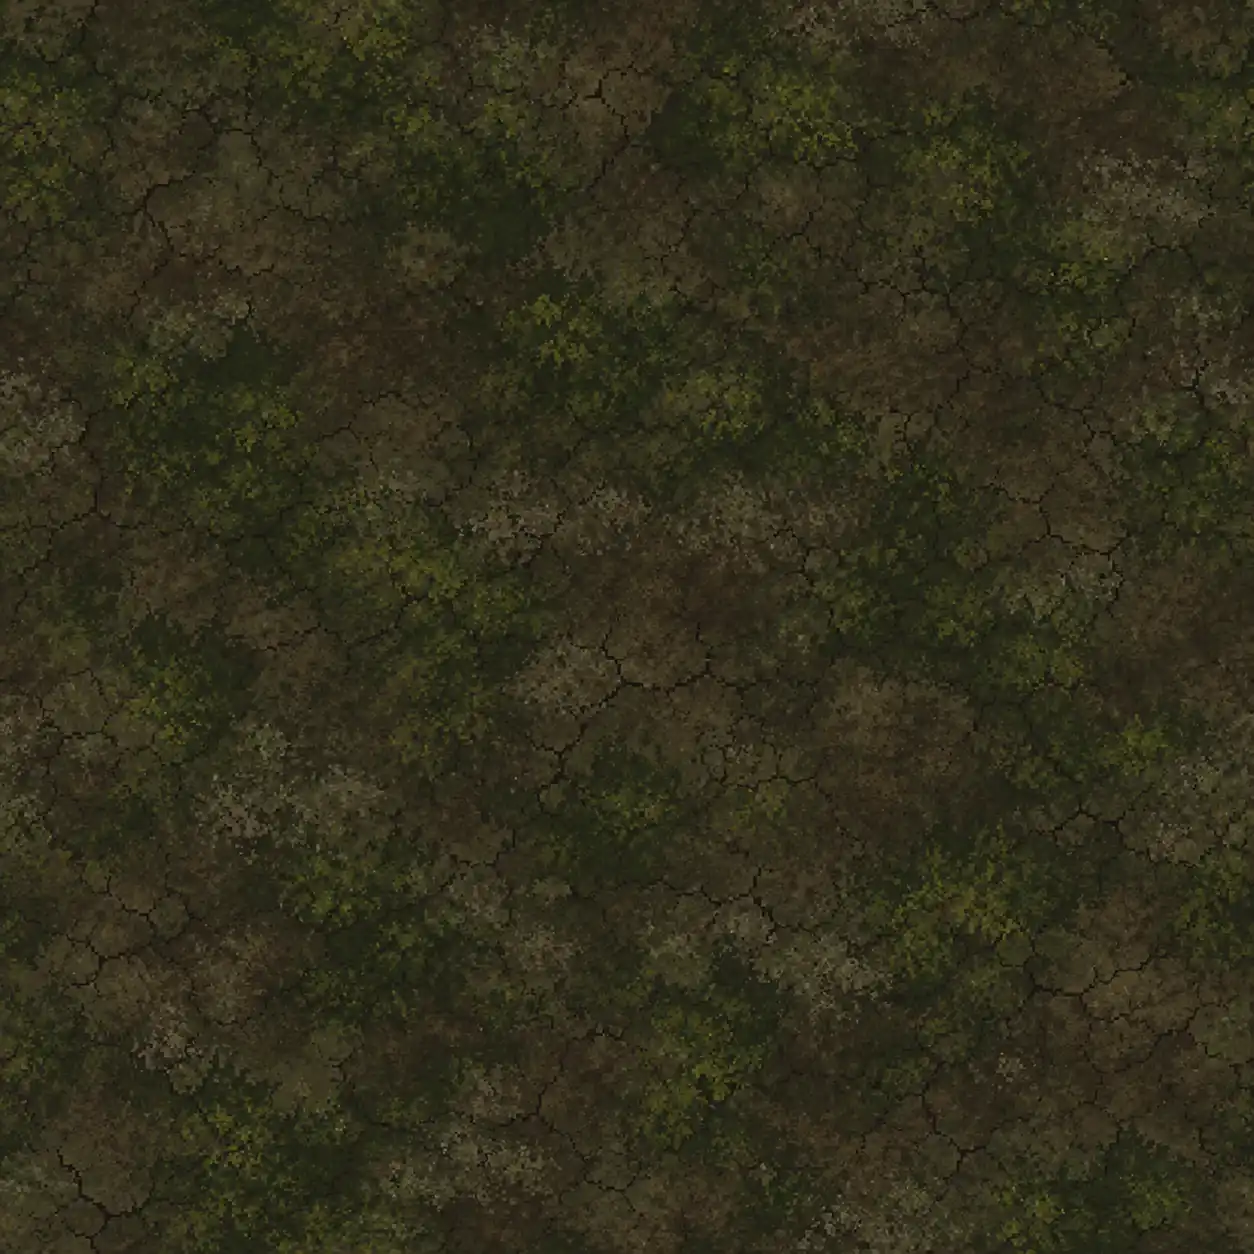
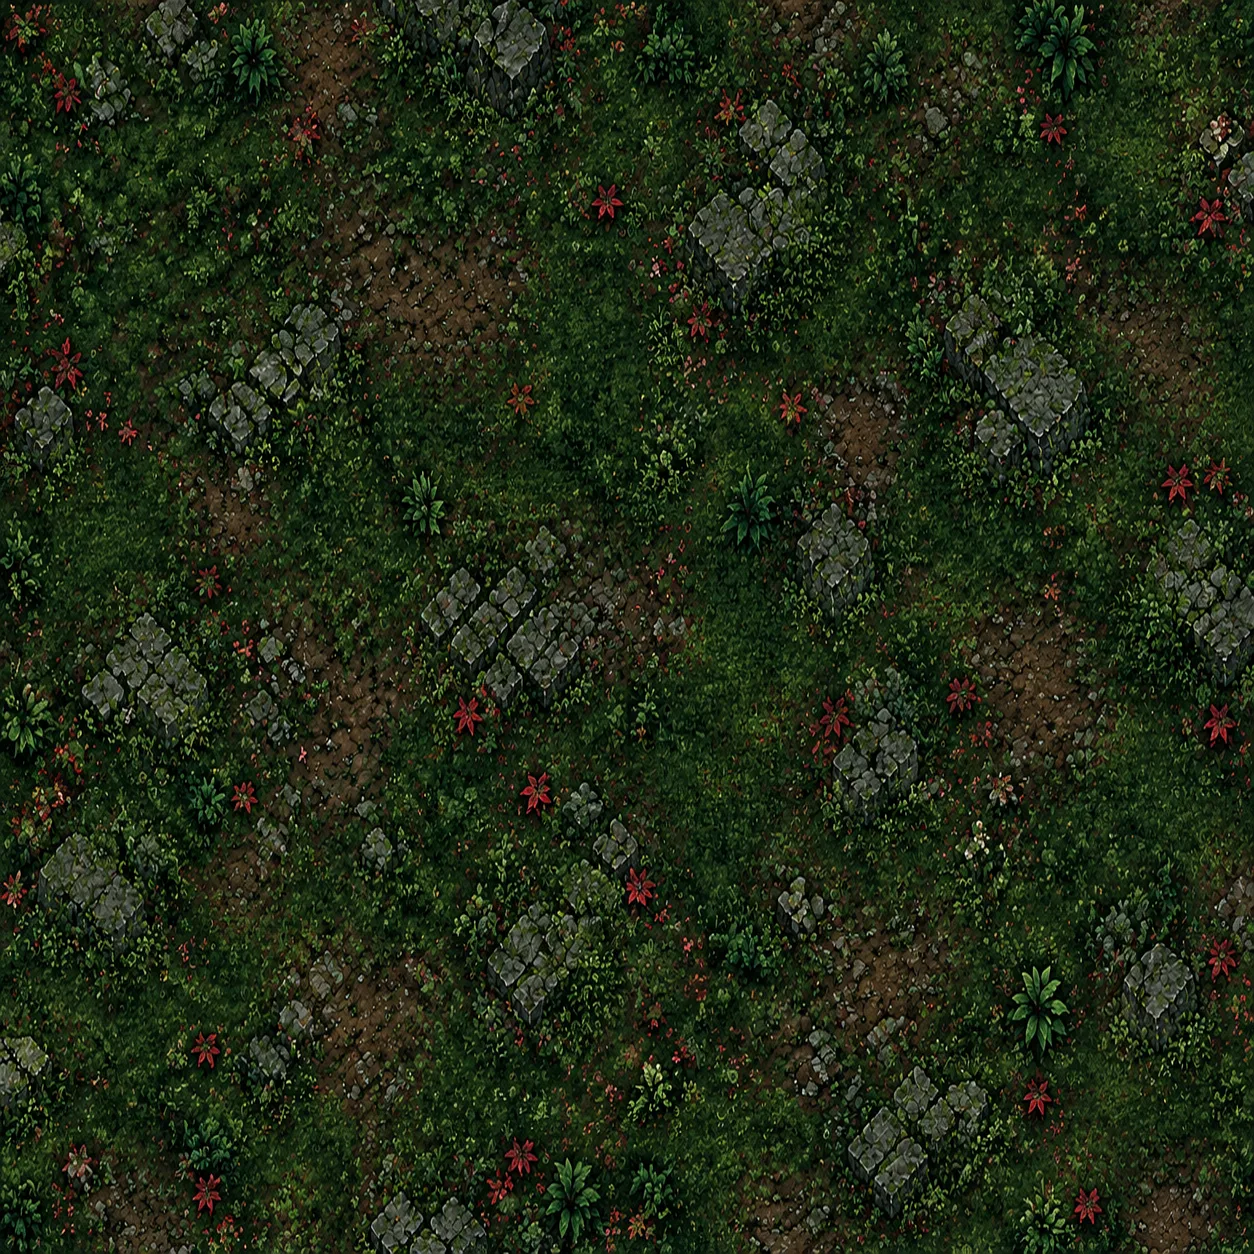
feat(arena): integrate custom ground and shrine border decorations

diff --git a/src/borderDecor.ts b/src/borderDecor.ts
@@ -1,0 +1,224 @@
+import { borderPropImages } from './assets';
+
+export interface BorderDecorItem {
+  type: 'fence' | 'torigate' | 'stoneLamp' | 'statue' | 'bridge';
+  x: number;
+  y: number;
+  w: number;
+  h: number;
+  flip?: boolean;
+}
+
+export const BORDER_DECORATIONS: readonly BorderDecorItem[] = [
+  // -------------------------------------------------------------
+  // 1. NORTH BORDER (y = -1750, span x: -2300 to 3700)
+  // -------------------------------------------------------------
+  // North-West Shrine Corner (x: -2260 to -1750)
+  { type: 'statue', x: -2260, y: -1780, w: 180, h: 212 },
+  { type: 'stoneLamp', x: -2170, y: -1720, w: 90, h: 121 },
+  { type: 'torigate', x: -2060, y: -1860, w: 420, h: 376 },
+  { type: 'stoneLamp', x: -1880, y: -1720, w: 90, h: 121 },
+  { type: 'statue', x: -1780, y: -1780, w: 180, h: 212, flip: true },
+
+  // NW Fence Run
+  { type: 'fence', x: -1580, y: -1740, w: 390, h: 195 },
+  { type: 'stoneLamp', x: -1205, y: -1710, w: 80, h: 108 },
+  { type: 'fence', x: -1200, y: -1740, w: 390, h: 195, flip: true },
+  { type: 'stoneLamp', x: -825, y: -1710, w: 80, h: 108 },
+  { type: 'fence', x: -820, y: -1740, w: 390, h: 195 },
+
+  // North Scenic Bridge Crossing
+  { type: 'bridge', x: -410, y: -1780, w: 500, h: 290 },
+  { type: 'fence', x: 80, y: -1740, w: 390, h: 195, flip: true },
+  { type: 'stoneLamp', x: 460, y: -1710, w: 80, h: 108 },
+
+  // North Grand Gateway (centered around player spawn X = 700)
+  { type: 'stoneLamp', x: 570, y: -1720, w: 90, h: 121 },
+  { type: 'statue', x: 650, y: -1780, w: 190, h: 223 },
+  { type: 'torigate', x: 850, y: -1890, w: 480, h: 430 },
+  { type: 'statue', x: 1340, y: -1780, w: 190, h: 223, flip: true },
+  { type: 'stoneLamp', x: 1540, y: -1720, w: 90, h: 121 },
+
+  // NE Fence Run
+  { type: 'fence', x: 1640, y: -1740, w: 390, h: 195 },
+  { type: 'stoneLamp', x: 2015, y: -1710, w: 80, h: 108 },
+  { type: 'fence', x: 2020, y: -1740, w: 390, h: 195, flip: true },
+
+  // North-East Scenic Bridge
+  { type: 'bridge', x: 2400, y: -1780, w: 500, h: 290, flip: true },
+  { type: 'fence', x: 2890, y: -1740, w: 390, h: 195 },
+  { type: 'stoneLamp', x: 3270, y: -1710, w: 80, h: 108 },
+
+  // North-East Corner Shrine
+  { type: 'statue', x: 3380, y: -1780, w: 180, h: 212 },
+  { type: 'torigate', x: 3540, y: -1860, w: 420, h: 376, flip: true },
+
+  // -------------------------------------------------------------
+  // 2. SOUTH BORDER (y = 2450, span x: -2300 to 3700)
+  // -------------------------------------------------------------
+  // South-West Corner Shrine
+  { type: 'torigate', x: -2250, y: 2220, w: 420, h: 376 },
+  { type: 'stoneLamp', x: -2060, y: 2340, w: 90, h: 121 },
+  { type: 'statue', x: -1960, y: 2280, w: 180, h: 212, flip: true },
+
+  // SW Fence Run
+  { type: 'fence', x: -1760, y: 2320, w: 390, h: 195 },
+  { type: 'stoneLamp', x: -1385, y: 2340, w: 80, h: 108 },
+  { type: 'fence', x: -1380, y: 2320, w: 390, h: 195, flip: true },
+  { type: 'stoneLamp', x: -1005, y: 2340, w: 80, h: 108 },
+
+  // South Scenic Bridge
+  { type: 'bridge', x: -980, y: 2260, w: 500, h: 290 },
+  { type: 'fence', x: -470, y: 2320, w: 390, h: 195 },
+  { type: 'stoneLamp', x: -95, y: 2340, w: 80, h: 108 },
+  { type: 'fence', x: -90, y: 2320, w: 390, h: 195, flip: true },
+  { type: 'stoneLamp', x: 290, y: 2340, w: 80, h: 108 },
+
+  // South Grand Gateway (aligned with player spawn X = 700)
+  { type: 'stoneLamp', x: 490, y: 2340, w: 90, h: 121 },
+  { type: 'statue', x: 570, y: 2280, w: 190, h: 223 },
+  { type: 'torigate', x: 770, y: 2200, w: 480, h: 430 },
+  { type: 'statue', x: 1260, y: 2280, w: 190, h: 223, flip: true },
+  { type: 'stoneLamp', x: 1460, y: 2340, w: 90, h: 121 },
+
+  // SE Fence Run
+  { type: 'fence', x: 1570, y: 2320, w: 390, h: 195 },
+  { type: 'stoneLamp', x: 1945, y: 2340, w: 80, h: 108 },
+  { type: 'fence', x: 1950, y: 2320, w: 390, h: 195, flip: true },
+
+  // South-East Scenic Bridge
+  { type: 'bridge', x: 2350, y: 2260, w: 500, h: 290, flip: true },
+  { type: 'fence', x: 2840, y: 2320, w: 390, h: 195 },
+  { type: 'stoneLamp', x: 3220, y: 2340, w: 80, h: 108 },
+
+  // South-East Corner Shrine
+  { type: 'statue', x: 3320, y: 2280, w: 180, h: 212 },
+  { type: 'torigate', x: 3520, y: 2220, w: 420, h: 376, flip: true },
+
+  // -------------------------------------------------------------
+  // 3. WEST BORDER (x = -2300, span y: -1500 to 2100)
+  // -------------------------------------------------------------
+  { type: 'bridge', x: -2270, y: -1250, w: 460, h: 267 },
+  { type: 'stoneLamp', x: -2250, y: -970, w: 85, h: 114 },
+  { type: 'fence', x: -2280, y: -840, w: 360, h: 180 },
+  { type: 'stoneLamp', x: -2250, y: -650, w: 85, h: 114 },
+  { type: 'fence', x: -2280, y: -520, w: 360, h: 180, flip: true },
+  { type: 'stoneLamp', x: -2250, y: -330, w: 85, h: 114 },
+
+  // West Grand Gateway (aligned with player spawn Y = 350)
+  { type: 'statue', x: -2260, y: -160, w: 180, h: 212 },
+  { type: 'stoneLamp', x: -2240, y: 60, w: 90, h: 121 },
+  { type: 'torigate', x: -2280, y: 190, w: 460, h: 410 },
+  { type: 'stoneLamp', x: -2240, y: 610, w: 90, h: 121 },
+  { type: 'statue', x: -2260, y: 740, w: 180, h: 212, flip: true },
+
+  // West Lower Run
+  { type: 'fence', x: -2280, y: 970, w: 360, h: 180 },
+  { type: 'stoneLamp', x: -2250, y: 1160, w: 85, h: 114 },
+  { type: 'bridge', x: -2270, y: 1280, w: 460, h: 267 },
+  { type: 'stoneLamp', x: -2250, y: 1560, w: 85, h: 114 },
+  { type: 'fence', x: -2280, y: 1690, w: 360, h: 180, flip: true },
+  { type: 'stoneLamp', x: -2250, y: 1880, w: 85, h: 114 },
+  { type: 'fence', x: -2280, y: 2000, w: 360, h: 180 },
+
+  // -------------------------------------------------------------
+  // 4. EAST BORDER (x = 3700, span y: -1500 to 2100)
+  // -------------------------------------------------------------
+  { type: 'bridge', x: 3410, y: -1250, w: 460, h: 267, flip: true },
+  { type: 'stoneLamp', x: 3600, y: -970, w: 85, h: 114 },
+  { type: 'fence', x: 3420, y: -840, w: 360, h: 180, flip: true },
+  { type: 'stoneLamp', x: 3600, y: -650, w: 85, h: 114 },
+  { type: 'fence', x: 3420, y: -520, w: 360, h: 180 },
+  { type: 'stoneLamp', x: 3600, y: -330, w: 85, h: 114 },
+
+  // East Grand Gateway (aligned with player spawn Y = 350)
+  { type: 'statue', x: 3580, y: -160, w: 180, h: 212 },
+  { type: 'stoneLamp', x: 3600, y: 60, w: 90, h: 121 },
+  { type: 'torigate', x: 3420, y: 190, w: 460, h: 410, flip: true },
+  { type: 'stoneLamp', x: 3600, y: 610, w: 90, h: 121 },
+  { type: 'statue', x: 3580, y: 740, w: 180, h: 212, flip: true },
+
+  // East Lower Run
+  { type: 'fence', x: 3420, y: 970, w: 360, h: 180, flip: true },
+  { type: 'stoneLamp', x: 3600, y: 1160, w: 85, h: 114 },
+  { type: 'bridge', x: 3410, y: 1280, w: 460, h: 267, flip: true },
+  { type: 'stoneLamp', x: 3600, y: 1560, w: 85, h: 114 },
+  { type: 'fence', x: 3420, y: 1690, w: 360, h: 180 },
+  { type: 'stoneLamp', x: 3600, y: 1880, w: 85, h: 114 },
+  { type: 'fence', x: 3420, y: 2000, w: 360, h: 180, flip: true }
+] as const;
+
+export function drawBorderDecorations(
+  ctx: CanvasRenderingContext2D,
+  camX: number,
+  camY: number,
+  halfW: number,
+  halfH: number
+) {
+  const minX = camX - halfW;
+  const maxX = camX + halfW;
+  const minY = camY - halfH;
+  const maxY = camY + halfH;
+
+  // First pass: contact shadows under visible props
+  for (let i = 0; i < BORDER_DECORATIONS.length; i++) {
+    const item = BORDER_DECORATIONS[i];
+    if (
+      item.x + item.w < minX ||
+      item.x > maxX ||
+      item.y + item.h < minY ||
+      item.y > maxY
+    ) {
+      continue;
+    }
+
+    const { type, x, y, w, h } = item;
+    const base_y = y + h;
+
+    ctx.fillStyle = 'rgba(0, 0, 0, 0.42)';
+    ctx.beginPath();
+
+    if (type === 'torigate') {
+      const lx = x + w * 0.17;
+      const rx = x + w * 0.83;
+      ctx.ellipse(lx, base_y - 2, 38, 14, 0, 0, Math.PI * 2);
+      ctx.ellipse(rx, base_y - 2, 38, 14, 0, 0, Math.PI * 2);
+    } else if (type === 'statue') {
+      ctx.ellipse(x + w * 0.5, base_y - 4, 60, 16, 0, 0, Math.PI * 2);
+    } else if (type === 'stoneLamp') {
+      ctx.ellipse(x + w * 0.5, base_y - 3, 30, 12, 0, 0, Math.PI * 2);
+    } else if (type === 'fence') {
+      ctx.ellipse(x + w * 0.5, base_y - 4, w * 0.44, 14, 0, 0, Math.PI * 2);
+    } else if (type === 'bridge') {
+      ctx.ellipse(x + w * 0.18, base_y - 4, 52, 18, 0, 0, Math.PI * 2);
+      ctx.ellipse(x + w * 0.82, base_y - 4, 52, 18, 0, 0, Math.PI * 2);
+    }
+    ctx.fill();
+  }
+
+  // Second pass: draw sprites
+  for (let i = 0; i < BORDER_DECORATIONS.length; i++) {
+    const item = BORDER_DECORATIONS[i];
+    if (
+      item.x + item.w < minX ||
+      item.x > maxX ||
+      item.y + item.h < minY ||
+      item.y > maxY
+    ) {
+      continue;
+    }
+
+    const img = borderPropImages[item.type];
+    if (!img || !img.complete || img.naturalWidth === 0) continue;
+
+    if (item.flip) {
+      ctx.save();
+      ctx.translate(item.x + item.w, item.y);
+      ctx.scale(-1, 1);
+      ctx.drawImage(img, 0, 0, item.w, item.h);
+      ctx.restore();
+    } else {
+      ctx.drawImage(img, item.x, item.y, item.w, item.h);
+    }
+  }
+}

diff --git a/src/assets.ts b/src/assets.ts
@@ -1225,6 +1225,20 @@ export const anims = {
 
 export const propImages: HTMLImageElement[] = [];
 
+export const borderPropImages = {
+  fence: new Image(),
+  torigate: new Image(),
+  stoneLamp: new Image(),
+  statue: new Image(),
+  bridge: new Image()
+};
+queueAsset(borderPropImages.fence, './fantasy_bg/fence.webp', 'fantasy_bg', true);
+queueAsset(borderPropImages.torigate, './fantasy_bg/torigate.webp', 'fantasy_bg', true);
+queueAsset(borderPropImages.stoneLamp, './fantasy_bg/stone-lamp.webp', 'fantasy_bg', true);
+queueAsset(borderPropImages.statue, './fantasy_bg/statue.webp', 'fantasy_bg', true);
+queueAsset(borderPropImages.bridge, './fantasy_bg/bridge.webp', 'fantasy_bg', true);
+propImages.push(borderPropImages.fence, borderPropImages.torigate, borderPropImages.stoneLamp, borderPropImages.statue, borderPropImages.bridge);
+
 export const terrainLayers = ['ground', 'ground-dirt', 'stones', 'leaves'].map(name => {
   const image = new Image();
   queueAsset(image, `./fantasy_bg/${name}.webp`, 'fantasy_bg', true);

diff --git a/src/renderer.ts b/src/renderer.ts
@@ -5,6 +5,7 @@ import { arena } from './arena';
 import { Entity } from './entities';
 import { reducedMotion } from './comfort';
 import { drawCombatHazards } from './combatPolish';
+import { drawBorderDecorations } from './borderDecor';
 
 let canvas: HTMLCanvasElement;
 let ctx: CanvasRenderingContext2D;
@@ -211,6 +212,13 @@ export function drawBackground(ctx: CanvasRenderingContext2D) {
   ctx.strokeStyle = '#332a29';
   ctx.lineWidth = 8;
   ctx.strokeRect(arena.left + 32, arena.top + 32, width - 64, height - 64);
+  drawBorderDecorations(
+    ctx,
+    globals.camera.x,
+    globals.camera.y,
+    globals.vw / (2 * globals.gameZoom) + 300,
+    globals.vh / (2 * globals.gameZoom) + 300
+  );
   ctx.restore();
 }
 
